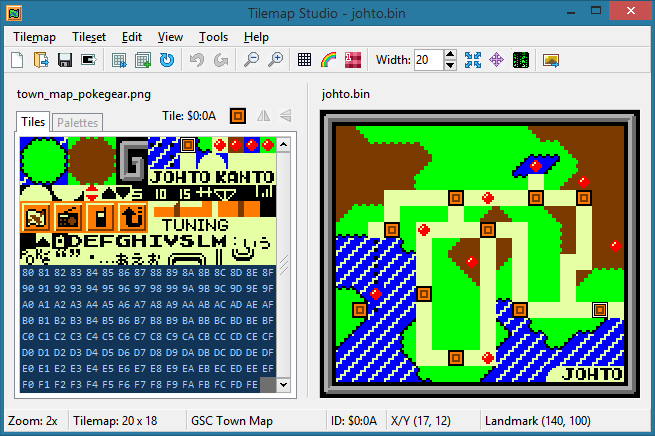
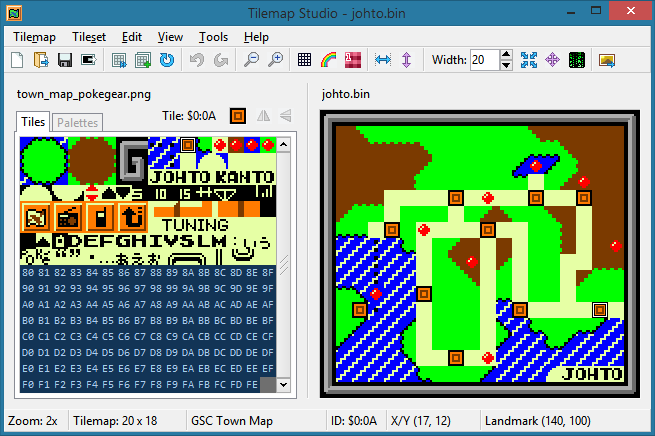
Add a Shift Tileset tool

Changed region(s): [[0.5496, 0.1193, 0.9466, 0.1789]]

diff --git a/src/main-window.cpp b/src/main-window.cpp
@@ -100,6 +100,7 @@ Main_Window::Main_Window(int x, int y, int w, int h, const char *) : Fl_Overlay_
 	_bold_palettes_tb = new Toolbar_Toggle_Button(0, 0, 24, 24);
 	new Fl_Box(0, 0, 2, 24); new Spacer(0, 0, 2, 24); new Fl_Box(0, 0, 2, 24);
 	_tileset_width_tb = new Toolbar_Button(0, 0, 24, 24);
+	_shift_tileset_tb = new Toolbar_Button(0, 0, 24, 24);
 	new Fl_Box(0, 0, 4, 24); new Spacer(0, 0, 2, 24); new Fl_Box(0, 0, 2, 24);
 	int wgt_w = text_width("Width:", 4);
 	_width_heading = new Label(0, 0, wgt_w, 24, "Width:");
@@ -235,6 +236,7 @@ Main_Window::Main_Window(int x, int y, int w, int h, const char *) : Fl_Overlay_
 	_print_options_dialog = new Print_Options_Dialog("Print Options");
 	_resize_dialog = new Resize_Dialog("Resize Tilemap");
 	_shift_dialog = new Shift_Dialog("Shift Tilemap");
+	_shift_tileset_dialog = new Shift_Tileset_Dialog("Shift Tileset");
 	_reformat_dialog = new Reformat_Dialog("Reformat Tilemap");
 	_add_tileset_dialog = new Add_Tileset_Dialog("Add Tileset");
 	_image_to_tiles_dialog = new Image_To_Tiles_Dialog("Image to Tiles");
@@ -365,7 +367,8 @@ Main_Window::Main_Window(int x, int y, int w, int h, const char *) : Fl_Overlay_
 			FL_MENU_TOGGLE | (fullscreen ? FL_MENU_VALUE : 0)),
 		{},
 		OS_SUBMENU("&Tools"),
-		OS_MENU_ITEM("&Tileset Width...", FL_COMMAND + 'h', (Fl_Callback *)tileset_width_cb, this, FL_MENU_DIVIDER),
+		OS_MENU_ITEM("&Tileset Width...", FL_COMMAND + 'h', (Fl_Callback *)tileset_width_cb, this, 0),
+		OS_MENU_ITEM("Shift Ti&leset...", FL_COMMAND + 'k', (Fl_Callback *)shift_tileset_cb, this, FL_MENU_DIVIDER),
 		OS_MENU_ITEM("Tilemap &Width...", FL_COMMAND + 'd', (Fl_Callback *)tilemap_width_cb, this, 0),
 		OS_MENU_ITEM("Re&size...", FL_COMMAND + 'e', (Fl_Callback *)resize_cb, this, 0),
 		OS_MENU_ITEM("S&hift...", FL_COMMAND + 'm', (Fl_Callback *)shift_cb, this, 0),
@@ -415,6 +418,7 @@ Main_Window::Main_Window(int x, int y, int w, int h, const char *) : Fl_Overlay_
 	_redo_mi = TS_FIND_MENU_ITEM_CB(redo_cb);
 	_zoom_in_mi = TS_FIND_MENU_ITEM_CB(zoom_in_cb);
 	_zoom_out_mi = TS_FIND_MENU_ITEM_CB(zoom_out_cb);
+	_shift_tileset_mi = TS_FIND_MENU_ITEM_CB(shift_tileset_cb);
 	_tilemap_width_mi = TS_FIND_MENU_ITEM_CB(tilemap_width_cb);
 	_resize_mi = TS_FIND_MENU_ITEM_CB(resize_cb);
 	_shift_mi = TS_FIND_MENU_ITEM_CB(shift_cb);
@@ -503,6 +507,10 @@ Main_Window::Main_Window(int x, int y, int w, int h, const char *) : Fl_Overlay_
 	_tileset_width_tb->tooltip("Tileset Width... (Ctrl+H)");
 	_tileset_width_tb->callback((Fl_Callback *)tileset_width_cb, this);
 	_tileset_width_tb->image(TILESET_WIDTH_ICON);
+
+	_shift_tileset_tb->tooltip("Shift Tileset... (Ctrl+K)");
+	_shift_tileset_tb->callback((Fl_Callback *)shift_tileset_cb, this);
+	_shift_tileset_tb->image(SHIFT_TILESET_ICON);
 
 	_width_heading->align(FL_ALIGN_RIGHT | FL_ALIGN_INSIDE | FL_ALIGN_CLIP);
 
@@ -641,6 +649,7 @@ Main_Window::~Main_Window() {
 	delete _print_options_dialog;
 	delete _resize_dialog;
 	delete _shift_dialog;
+	delete _shift_tileset_dialog;
 	delete _reformat_dialog;
 	delete _image_to_tiles_dialog;
 	delete _help_window;
@@ -838,6 +847,7 @@ void Main_Window::update_icons() {
 	Image::make_deimage(_redo_tb);
 	Image::make_deimage(_zoom_in_tb);
 	Image::make_deimage(_zoom_out_tb);
+	Image::make_deimage(_shift_tileset_tb);
 	Image::make_deimage(_resize_tb);
 	Image::make_deimage(_shift_tb);
 	Image::make_deimage(_reformat_tb);
@@ -1050,11 +1060,15 @@ void Main_Window::update_active_controls() {
 		_reload_tilesets_mi->activate();
 		_reload_tb->activate();
 		_unload_tilesets_mi->activate();
+		_shift_tileset_mi->activate();
+		_shift_tileset_tb->activate();
 	}
 	else {
 		_reload_tilesets_mi->deactivate();
 		_reload_tb->deactivate();
 		_unload_tilesets_mi->deactivate();
+		_shift_tileset_mi->deactivate();
+		_shift_tileset_tb->deactivate();
 	}
 
 	if (format_can_flip(Config::format())) {
@@ -1225,6 +1239,17 @@ void Main_Window::shift_tilemap() {
 	tilemap_width_tb_cb(NULL, this);
 	update_status(NULL);
 	update_active_controls();
+	redraw();
+}
+
+void Main_Window::shift_tileset() {
+	int dn = _shift_tileset_dialog->shift();
+	if (dn == 0) { return; }
+
+	for (Tileset &t : _tilesets) {
+		t.shift(dn);
+	}
+
 	redraw();
 }
 
@@ -2201,7 +2226,7 @@ void Main_Window::full_screen_cb(Fl_Menu_ *m, Main_Window *mw) {
 	}
 }
 
-void Main_Window::tileset_width_cb(Fl_Menu_ *, Main_Window *mw) {
+void Main_Window::tileset_width_cb(Fl_Widget *, Main_Window *mw) {
 	mw->_tileset_width_dialog->group_width((size_t)mw->_tileset_width);
 	mw->_tileset_width_dialog->show(mw);
 	if (mw->_tileset_width_dialog->canceled()) { return; }
@@ -2213,6 +2238,14 @@ void Main_Window::tileset_width_cb(Fl_Menu_ *, Main_Window *mw) {
 	mw->update_tileset_width(tw);
 	mw->update_active_controls();
 	mw->redraw();
+}
+
+void Main_Window::shift_tileset_cb(Fl_Widget *, Main_Window *mw) {
+	int n = format_tileset_size(Config::format());
+	mw->_shift_tileset_dialog->limit_shift(n);
+	mw->_shift_tileset_dialog->show(mw);
+	if (mw->_shift_tileset_dialog->canceled()) { return; }
+	mw->shift_tileset();
 }
 
 void Main_Window::tilemap_width_cb(Fl_Menu_ *, Main_Window *mw) {

diff --git a/src/main-window.h b/src/main-window.h
@@ -48,7 +48,7 @@ private:
 	Toolbar_Button *_new_tb, *_open_tb, *_save_tb, *_print_tb, *_load_tb, *_add_tb, *_reload_tb, *_undo_tb, *_redo_tb,
 		*_zoom_in_tb, *_zoom_out_tb;
 	Toolbar_Toggle_Button *_grid_tb, *_rainbow_tiles_tb, *_bold_palettes_tb;
-	Toolbar_Button *_tileset_width_tb;
+	Toolbar_Button *_tileset_width_tb, *_shift_tileset_tb;
 	Default_Spinner *_tilemap_width;
 	Toolbar_Button *_resize_tb, *_shift_tb, *_reformat_tb;
 	Toolbar_Button *_image_to_tiles_tb;
@@ -65,7 +65,7 @@ private:
 	Fl_Menu_Item *_reload_tilesets_mi = NULL, *_unload_tilesets_mi = NULL;
 	Fl_Menu_Item *_undo_mi = NULL, *_redo_mi = NULL;
 	Fl_Menu_Item *_zoom_in_mi = NULL, *_zoom_out_mi = NULL;
-	Fl_Menu_Item *_tilemap_width_mi = NULL, *_resize_mi = NULL, *_shift_mi = NULL, *_reformat_mi = NULL;
+	Fl_Menu_Item *_shift_tileset_mi = NULL, *_tilemap_width_mi = NULL, *_resize_mi = NULL, *_shift_mi = NULL, *_reformat_mi = NULL;
 	// Dialogs
 	Fl_Native_File_Chooser *_tilemap_open_chooser, *_tilemap_save_chooser, *_tileset_load_chooser, *_image_print_chooser;
 	Modal_Dialog *_error_dialog, *_warning_dialog, *_success_dialog, *_unsaved_dialog, *_about_dialog;
@@ -75,6 +75,7 @@ private:
 	Print_Options_Dialog *_print_options_dialog;
 	Resize_Dialog *_resize_dialog;
 	Shift_Dialog *_shift_dialog;
+	Shift_Tileset_Dialog *_shift_tileset_dialog;
 	Reformat_Dialog *_reformat_dialog;
 	Add_Tileset_Dialog *_add_tileset_dialog;
 	Image_To_Tiles_Dialog *_image_to_tiles_dialog;
@@ -146,6 +147,7 @@ private:
 	void update_tileset_width(int tw);
 	void resize_tilemap(void);
 	void shift_tilemap(void);
+	void shift_tileset(void);
 	void reformat_tilemap(void);
 	bool save_tilemap(bool force);
 	void select_tile(uint16_t id);
@@ -198,7 +200,8 @@ private:
 	static void rainbow_tiles_cb(Fl_Menu_ *m, Main_Window *mw);
 	static void bold_palettes_cb(Fl_Menu_ *m, Main_Window *mw);
 	// Tools menu
-	static void tileset_width_cb(Fl_Menu_ *m, Main_Window *mw);
+	static void tileset_width_cb(Fl_Widget *w, Main_Window *mw);
+	static void shift_tileset_cb(Fl_Widget *w, Main_Window *mw);
 	static void tilemap_width_cb(Fl_Menu_ *m, Main_Window *mw);
 	static void resize_cb(Fl_Menu_ *m, Main_Window *mw);
 	static void shift_cb(Fl_Menu_ *m, Main_Window *mw);

diff --git a/src/option-dialogs.cpp b/src/option-dialogs.cpp
@@ -563,6 +563,60 @@ void Shift_Dialog::slide_y_cb(Default_Slider *, Shift_Dialog *sd) {
 	sd->_shift_y->redraw();
 }
 
+Shift_Tileset_Dialog::Shift_Tileset_Dialog(const char *t) : Option_Dialog(220, t), _shift(NULL), _slide(NULL) {}
+
+Shift_Tileset_Dialog::~Shift_Tileset_Dialog() {
+	delete _shift;
+	delete _slide;
+}
+
+void Shift_Tileset_Dialog::limit_shift(int n) {
+	initialize();
+	_shift->range(-n, n);
+	_shift->value(0);
+	_slide->range(-n, n);
+	_slide->value(0);
+}
+
+void Shift_Tileset_Dialog::initialize_content() {
+	// Populate content group
+	_shift = new Default_Hex_Spinner(0, 0, 0, 0, "Shift: $");
+	_slide = new Default_Slider(0, 0, 0, 0);
+	// Initialize content group's children
+	_shift->format("%X");
+	_shift->default_value(0);
+	_shift->callback((Fl_Callback *)shift_cb, this);
+	_slide->color(FL_BACKGROUND_COLOR);
+	_slide->step(1);
+	_slide->default_value(0);
+	_slide->callback((Fl_Callback *)slide_cb, this);
+}
+
+int Shift_Tileset_Dialog::refresh_content(int ww, int dy) {
+	int wgt_h = 22, win_m = 10;
+	_content->resize(win_m, dy, ww, wgt_h);
+
+	int wgt_off = win_m + text_width(_shift->label(), 2);
+	int wgt_w = std::max(text_width("-AAA", 2), text_width("-FFF", 2)) + wgt_h / 2 + 4;
+	_shift->resize(wgt_off, dy, wgt_w, wgt_h);
+	wgt_off += wgt_w + 6;
+	wgt_w = ww + win_m - wgt_off;
+	_slide->resize(wgt_off, dy, wgt_w, wgt_h);
+	_slide->slider_size((wgt_h / 2.0) / wgt_w);
+
+	return wgt_h;
+}
+
+void Shift_Tileset_Dialog::shift_cb(Default_Hex_Spinner *, Shift_Tileset_Dialog *sd) {
+	sd->_slide->value(sd->_shift->value());
+	sd->_slide->redraw();
+}
+
+void Shift_Tileset_Dialog::slide_cb(Default_Slider *, Shift_Tileset_Dialog *sd) {
+	sd->_shift->value((int)sd->_slide->value());
+	sd->_shift->redraw();
+}
+
 Reformat_Dialog::Reformat_Dialog(const char *t) : Option_Dialog(280, t), _format_header(NULL), _format(NULL), _force(NULL) {}
 
 Reformat_Dialog::~Reformat_Dialog() {

diff --git a/src/option-dialogs.h b/src/option-dialogs.h
@@ -180,6 +180,23 @@ private:
 	static void slide_y_cb(Default_Slider *d, Shift_Dialog *sd);
 };
 
+class Shift_Tileset_Dialog : public Option_Dialog {
+private:
+	Default_Hex_Spinner *_shift;
+	Default_Slider *_slide;
+public:
+	Shift_Tileset_Dialog(const char *t);
+	~Shift_Tileset_Dialog();
+	inline int shift(void) const { return (int)_shift->value(); }
+	void limit_shift(int n);
+protected:
+	void initialize_content(void);
+	int refresh_content(int ww, int dy);
+private:
+	static void shift_cb(Default_Hex_Spinner *d, Shift_Tileset_Dialog *sd);
+	static void slide_cb(Default_Slider *d, Shift_Tileset_Dialog *sd);
+};
+
 class Reformat_Dialog : public Option_Dialog {
 private:
 	Label *_format_header;

diff --git a/src/icons.h b/src/icons.h
@@ -24,6 +24,7 @@
 #include "input.xpm"
 #include "output.xpm"
 #include "tileset-width.xpm"
+#include "shift-tileset.xpm"
 #include "resize.xpm"
 #include "shift.xpm"
 #include "reformat.xpm"
@@ -52,6 +53,7 @@ static Fl_Pixmap BOLD_ICON(BOLD_XPM);
 static Fl_Pixmap INPUT_ICON(INPUT_XPM);
 static Fl_Pixmap OUTPUT_ICON(OUTPUT_XPM);
 static Fl_Pixmap TILESET_WIDTH_ICON(TILESET_WIDTH_XPM);
+static Fl_Pixmap SHIFT_TILESET_ICON(SHIFT_TILESET_XPM);
 static Fl_Pixmap RESIZE_ICON(RESIZE_XPM);
 static Fl_Pixmap SHIFT_ICON(SHIFT_XPM);
 static Fl_Pixmap REFORMAT_ICON(REFORMAT_XPM);

diff --git a/src/tileset.cpp b/src/tileset.cpp
@@ -36,6 +36,10 @@ void Tileset::update_zoom() {
 	_zoomed_image = (Fl_RGB_Image *)_1x_image->copy(_1x_image->w() * z, _1x_image->h() * z);
 }
 
+void Tileset::shift(int dn) {
+	_start_id += dn;
+}
+
 bool Tileset::draw_tile(const Tile_State *ts, int x, int y, int z, bool active) const {
 	int index = (int)ts->id - _start_id + _offset;
 	int limit = (int)_num_tiles;

diff --git a/src/tileset.h b/src/tileset.h
@@ -41,6 +41,7 @@ public:
 	inline Result result(void) const { return _result; }
 	void clear(void);
 	void update_zoom(void);
+	void shift(int dn);
 	bool draw_tile(const Tile_State *ts, int x, int y, int z, bool active) const;
 	bool print_tile(const Tile_State *ts, int x, int y, bool active) const;
 	Result read_tiles(const char *f);

diff --git a/src/hex-spinner.cpp b/src/hex-spinner.cpp
@@ -114,7 +114,13 @@ int Hex_Spinner::handle(int event) {
 
 void Hex_Spinner::update() {
 	char s[255] = {};
-	sprintf(s, _format, _value);
+	if (_value < 0) {
+		s[0] = '-';
+		sprintf(s + 1, _format, -_value);
+	}
+	else {
+		sprintf(s, _format, _value);
+	}
 	_input.value(s);
 }
 
